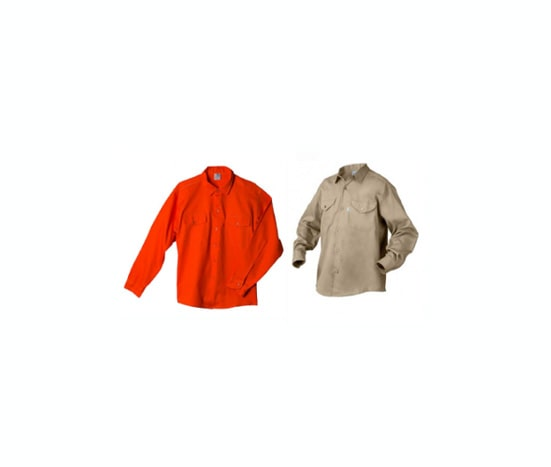
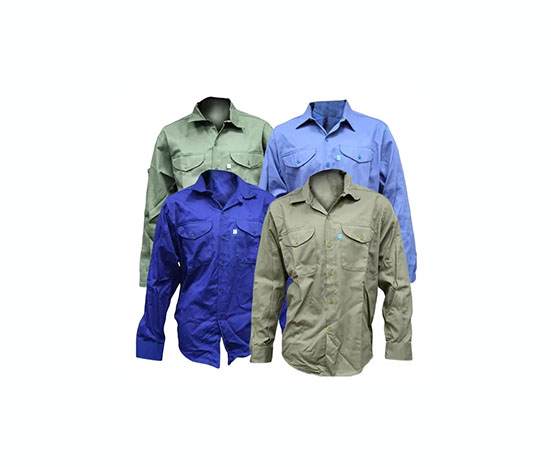
Update

Changed region(s): [[0.216, 0.2099, 0.7713, 0.8094]]

diff --git a/trabajo.html b/trabajo.html
@@ -48,7 +48,7 @@
                     <div class="main-menu mobile-menu">
                         <ul>
                             <li><a href="./index ">Home</a></li>
-                            <li class="active"><a href="./trabajo ">Trabajo</a></li>
+                            <li class="active"><a href="./trabajo ">Catálogo</a></li>
                             <li><a href="./catalogo ">Informal</a></li>
                             <li><a href="./nosotros ">Nosotros</a></li>
                             <li><a href="./contacto ">Contacto</a></li>
@@ -102,7 +102,7 @@
                             <div class="col-lg-6">
                                 <div class="bi-text">
                                     <h4><a>Buzo de Algodón Frizado</a></h4>
-                                    <p>Cuellitos de abrigo, variedad de motivos, excelentes para COVID-19. Traenos tu diseño y lo personalizamos.</p>
+                                    <p>Cuello redondo. Puños y cintura elastizados.</p>
                                 </div>
                             </div>
                         </div>
@@ -225,6 +225,22 @@
                     <div class="blog-item">
                         <div class="row">
                             <div class="col-lg-6">
+                                <div class="bi-pic set-bg" data-setbg="img/trabajo/camisa-oxford.jpg"></div>
+                            </div>
+                            <div class="col-lg-6">
+                                <div class="bi-text">
+                                    <h4><a>Camisa Oxford</a></h4>
+                                    <p></p>
+                                </div>
+                            </div>
+                        </div>
+                    </div>
+                </div>
+
+                <div class="col-lg-6">
+                    <div class="blog-item">
+                        <div class="row">
+                            <div class="col-lg-6">
                                 <div class="bi-pic set-bg" data-setbg="img/trabajo/camisa-denim.jpg"></div>
                             </div>
                             <div class="col-lg-6">
@@ -245,7 +261,23 @@
                             </div>
                             <div class="col-lg-6">
                                 <div class="bi-text">
-                                    <h4><a>Pantalón Jean Denim 14 Oz</a></h4>
+                                    <h4><a>Pantalón Jean</a></h4>
+                                    <p>Color Azul</p>
+                                </div>
+                            </div>
+                        </div>
+                    </div>
+                </div>
+
+                <div class="col-lg-6">
+                    <div class="blog-item">
+                        <div class="row">
+                            <div class="col-lg-6">
+                                <div class="bi-pic set-bg" data-setbg="img/trabajo/jean-elastizado.jpg"></div>
+                            </div>
+                            <div class="col-lg-6">
+                                <div class="bi-text">
+                                    <h4><a>Jean Elastizado</a></h4>
                                     <p>Color Azul</p>
                                 </div>
                             </div>
@@ -310,24 +342,8 @@
                             </div>
                             <div class="col-lg-6">
                                 <div class="bi-text">
-                                    <h4><a>Mameluco Gabardina</a></h4>
-                                    <p>Algodón 100%. 4 Bolsillos, Cierre Reforzado.</p>
-                                </div>
-                            </div>
-                        </div>
-                    </div>
-                </div>
-
-                <div class="col-lg-6">
-                    <div class="blog-item">
-                        <div class="row">
-                            <div class="col-lg-6">
-                                <div class="bi-pic set-bg" data-setbg="img/trabajo/mameluco-antiacido.jpg"></div>
-                            </div>
-                            <div class="col-lg-6">
-                                <div class="bi-text">
-                                    <h4><a>Mameluco Antiácido</a></h4>
-                                    <p>Con bandas reflectivas.</p>
+                                    <h4><a>Mameluco Térmico</a></h4>
+                                    <p>Cierre Reforzado.</p>
                                 </div>
                             </div>
                         </div>

diff --git a/catalogo.html b/catalogo.html
@@ -48,7 +48,7 @@
                     <div class="main-menu mobile-menu">
                         <ul>
                             <li><a href="./index ">Home</a></li>
-                            <li><a href="./trabajo ">Trabajo</a></li>
+                            <li><a href="./trabajo ">Catálogo</a></li>
                             <li class="active"><a href="./catalogo ">Informal</a></li>
                             <li><a href="./nosotros ">Nosotros</a></li>
                             <li><a href="./contacto ">Contacto</a></li>

diff --git a/contacto.html b/contacto.html
@@ -48,7 +48,7 @@
                     <div class="main-menu mobile-menu">
                         <ul>
                             <li><a href="./index ">Home</a></li>
-                            <li><a href="./trabajo ">Trabajo</a></li>
+                            <li><a href="./trabajo ">Catálogo</a></li>
                             <li><a href="./catalogo ">Informal</a></li>
                             <li><a href="./nosotros ">Nosotros</a></li>
                             <li class="active"><a href="./contacto ">Contacto</a></li>

diff --git a/nosotros.html b/nosotros.html
@@ -50,7 +50,7 @@
                     <div class="main-menu mobile-menu">
                         <ul>
                             <li><a href="./index ">Home</a></li>
-                            <li><a href="./trabajo ">Trabajo</a></li>
+                            <li><a href="./trabajo ">Catálogo</a></li>
                             <li><a href="./catalogo ">Informal</a></li>
                             <li class="active"><a href="./nosotros ">Nosotros</a></li>
                             <li><a href="./contacto ">Contacto</a></li>

diff --git a/css/style.css b/css/style.css
@@ -1770,11 +1770,11 @@ ol {
 	}
 	.slicknav_btn {
 		margin: 0;
-		border-radius: 0;
+		/* border-radius: 0; */
 		background-color: #666;
 		position: absolute;
 		right: 15px;
-		top: 20px;
+		top: 35px;
 		display: inline-block;
 		float: none;
 	}
